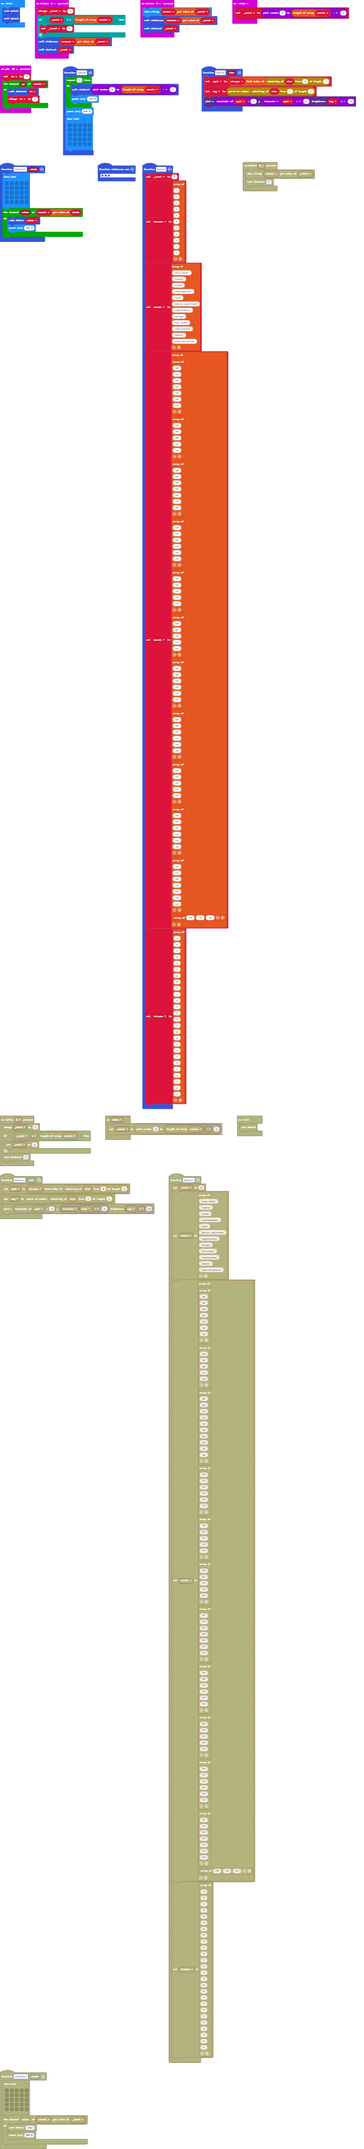
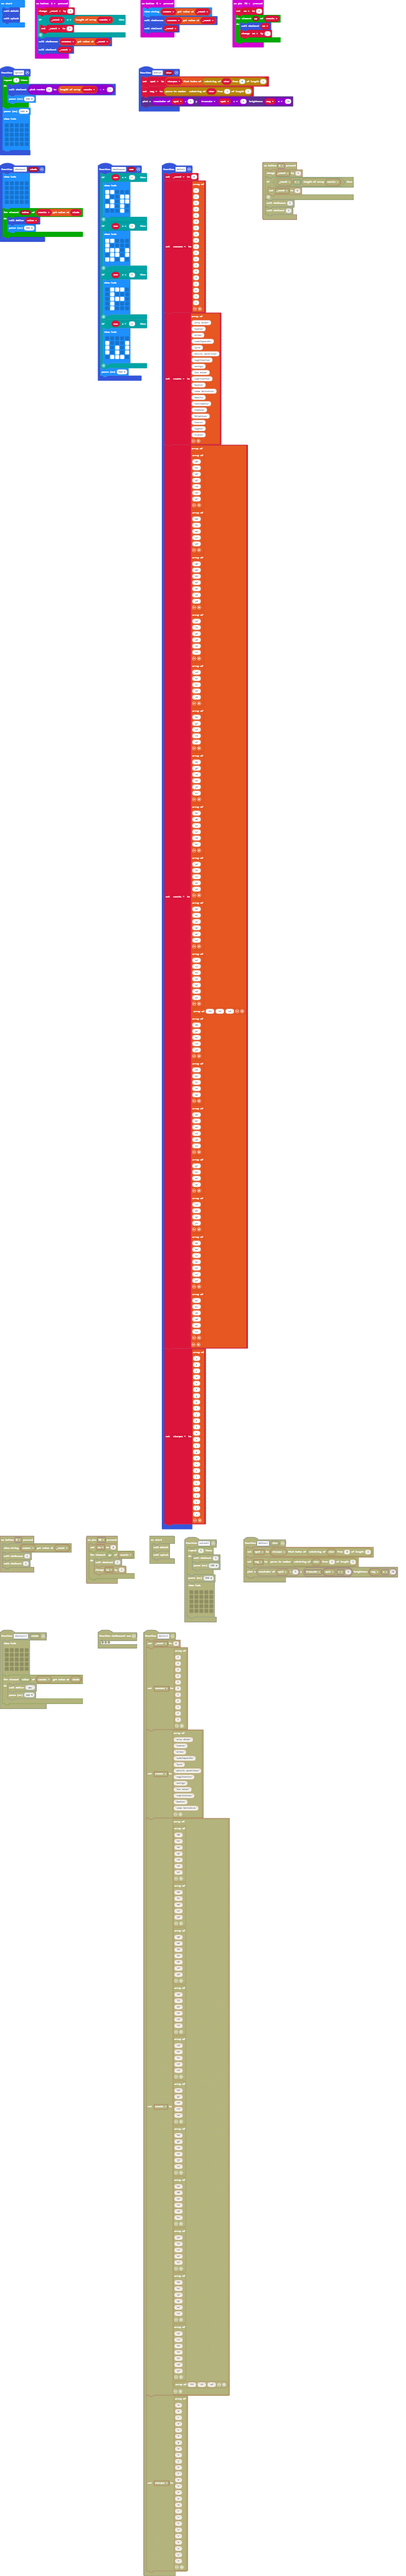
Update main.blocks, main.ts

Changed region(s): [[0.0, 0.0, 0.9846, 1.0], [0.0, 0.962, 0.2462, 1.0], [0.6462, 0.4965, 0.7077, 0.5276]]

diff --git a/main.ts b/main.ts
@@ -57,6 +57,14 @@ function doInit () {
     4,
     1,
     2,
+    1,
+    1,
+    2,
+    3,
+    3,
+    2,
+    4,
+    2,
     1
     ]
     cnames = [
@@ -71,7 +79,14 @@ function doInit () {
     "leo minor",
     "capricornus",
     "bootes",
-    "coma berenices"
+    "coma berenices",
+    "Aquila",
+    "Cassiopeia",
+    "Cepheus",
+    "Delphinus",
+    "Cancer",
+    "Cygnus",
+    "Crater"
     ]
     consts = [
     [
@@ -161,7 +176,58 @@ function doInit () {
     "s8",
     "y3"
     ],
-    ["f3", "i3", "u3"]
+    ["f3", "i3", "u3"],
+    [
+    "f8",
+    "p4",
+    "h4",
+    "r3",
+    "y3"
+    ],
+    [
+    "f3",
+    "k4",
+    "l4",
+    "r5",
+    "o6"
+    ],
+    [
+    "b3",
+    "k2",
+    "h3",
+    "v3",
+    "s6",
+    "t2"
+    ],
+    [
+    "g2",
+    "h2",
+    "m2",
+    "x2"
+    ],
+    [
+    "c3",
+    "m3",
+    "q2",
+    "y4"
+    ],
+    [
+    "b6",
+    "k3",
+    "l4",
+    "h4",
+    "e3",
+    "s1",
+    "y4"
+    ],
+    [
+    "b1",
+    "k1",
+    "q3",
+    "n6",
+    "w1",
+    "t3"
+    ]
     ]
     starpos = [
     "a",
